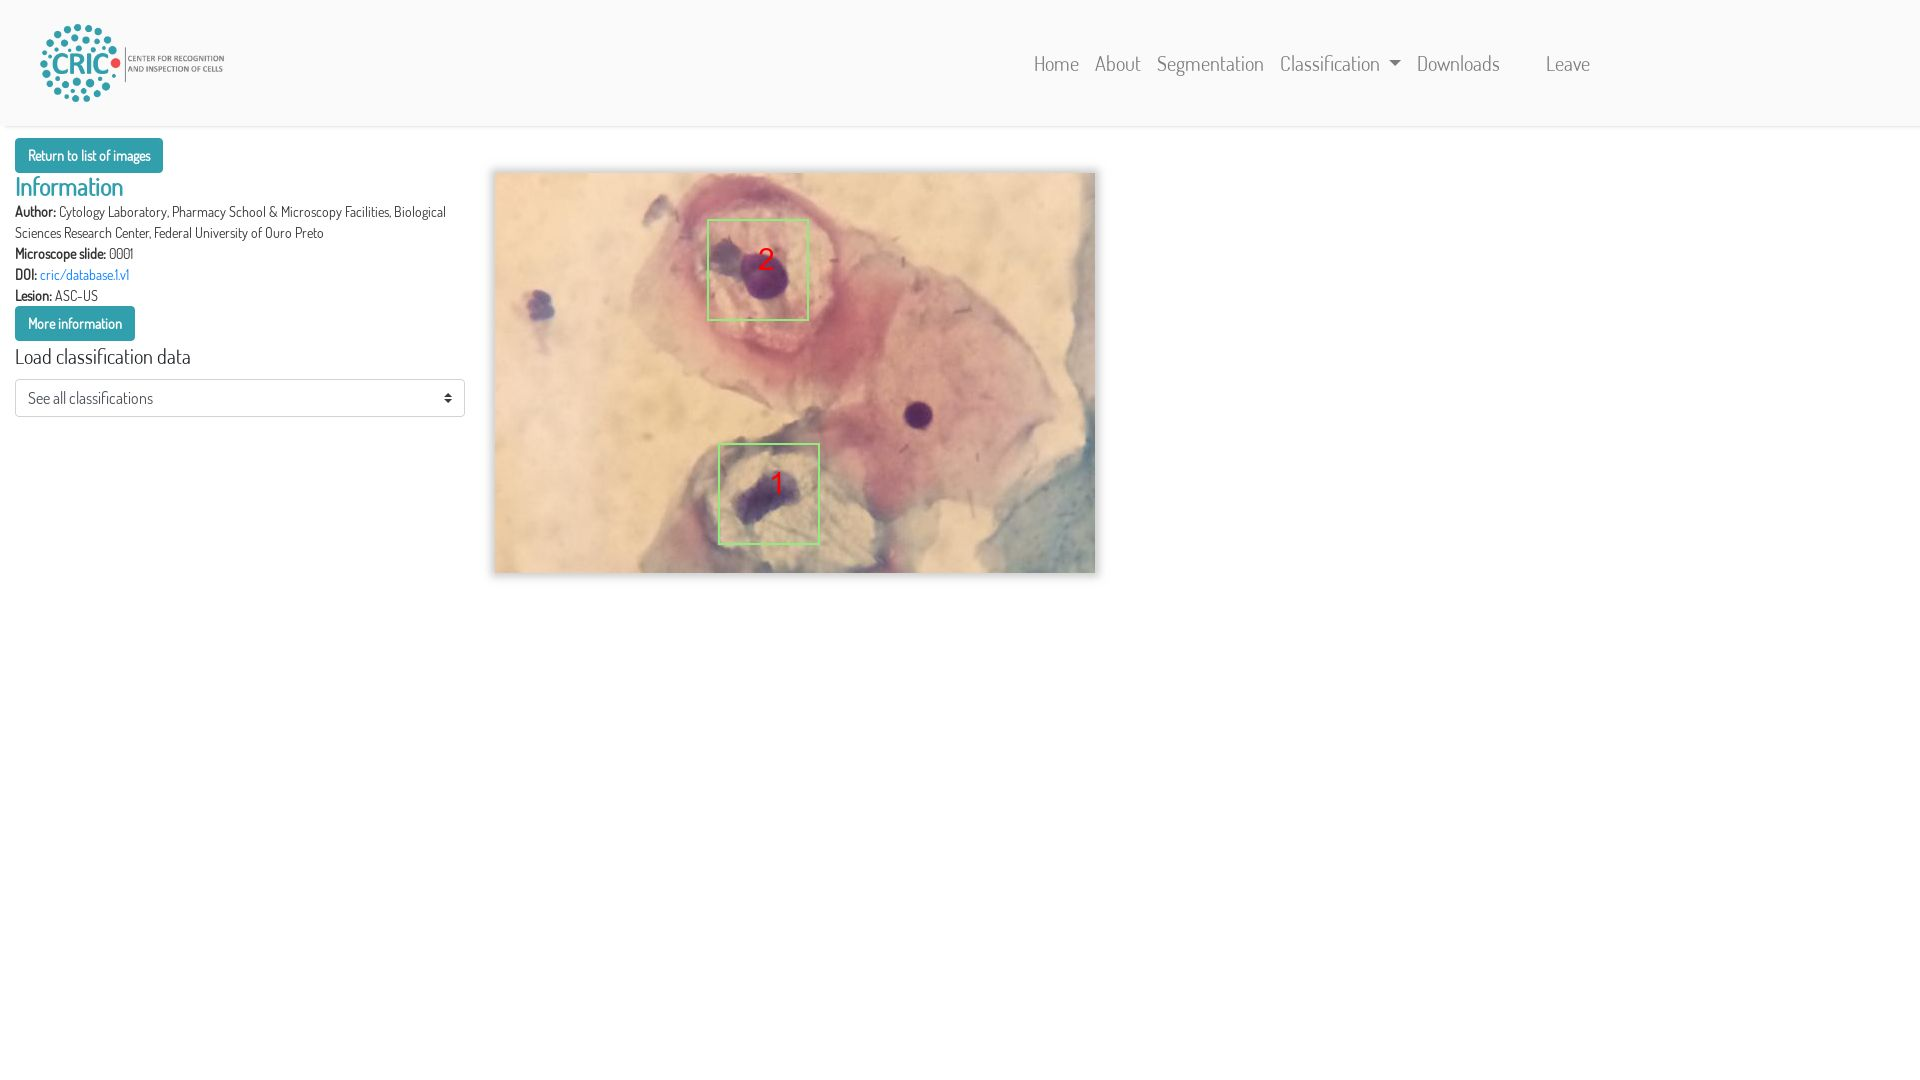
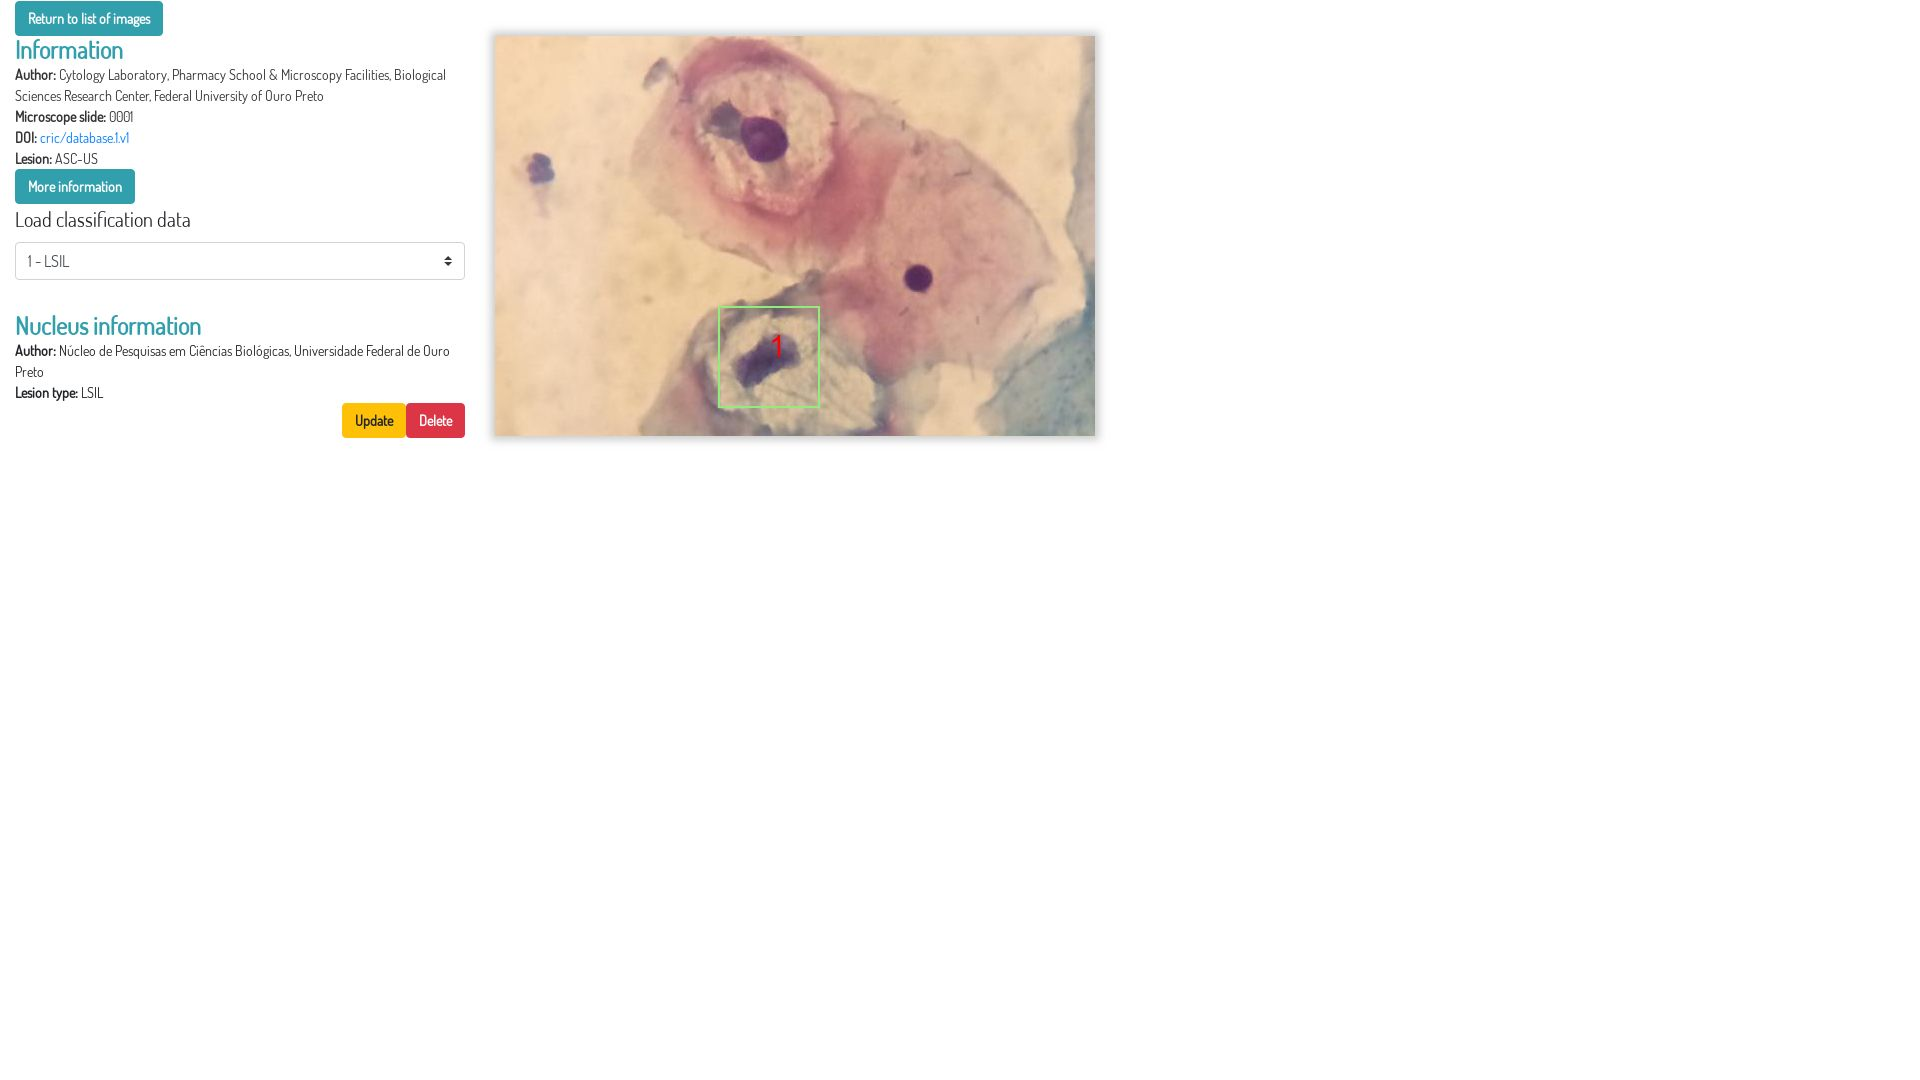
Add screenshot to anonymous user

Changed region(s): [[0.1562, 0.0306, 0.5938, 0.55], [0.0, 0.0, 0.2188, 0.3972], [0.25, 0.275, 0.3125, 0.3056]]

diff --git a/docs/screenshots/admin.py b/docs/screenshots/admin.py
@@ -54,13 +54,13 @@ async def main():
     await go4screenshot(
         page,
         '/classification',
-        'admin-classification.jpg'
+        'admin-classification-list.jpg'
     )
 
     await go4screenshot(
         page,
-        '/classification/image/1',
-        'admin-classification-details.jpg'
+        '/classification/image/1#dashboard',
+        'admin-classification-view.jpg'
     )
 
     await asyncio.gather(
@@ -77,7 +77,7 @@ async def main():
     )
     await screenshot(
         page,
-        'admin-classification-more-details.jpg'
+        'admin-classification-details.jpg'
     )
 
     await go4screenshot(

diff --git a/docs/screenshots/anonymous.py b/docs/screenshots/anonymous.py
@@ -32,13 +32,18 @@ async def main():
         'anonymous-classification-view.jpg'
     )
 
-    #await asyncio.gather(
-    #    page.waitForSelector('#box_info'),
-    #    page.select(
-    #        'select',
-    #        '0'
-    #    ),
-    #)
+    await asyncio.gather(
+        page.waitForSelector(
+            'div.box_info',
+            {
+                "visible": True
+            }
+        ),
+        page.select(
+            'select',
+            '0'
+        ),
+    )
     await screenshot(
         page,
         'anonymous-classification-details.jpg'
